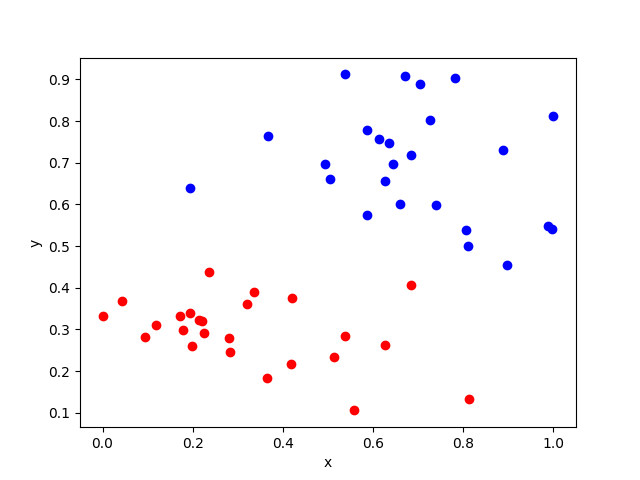
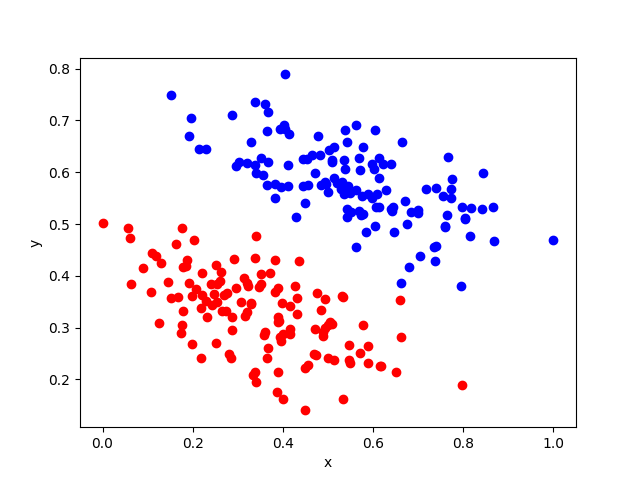
Add Decision Plot

diff --git a/Model/GradientPerceptron/LinearlySeperable.py b/Model/GradientPerceptron/LinearlySeperable.py
@@ -6,7 +6,7 @@ from Neuron import *
 
 # parameters
 N = list(2**n for n in range(4, 12))
-X = 50
+X = 250
 trainingRate = 0.0005
 
 
@@ -120,6 +120,23 @@ def perceptron_flood(neuron):
     plt.savefig("images/perceptron_flood_{}bits.png".format(N))
     plt.close()
 
+def plot_decision(neuron, x, y):
+    plt.figure()
+
+    x_t = np.arange(0, 1, 1/X)
+    y_t = neuron.decision(x_t)
+
+    plt.plot(x[:X//2, 0], x[:X//2, 1], 'ro')
+    plt.plot(x[X//2:, 0], x[X//2:, 1], 'bo')
+
+    plt.plot(x_t, y_t)
+
+    plt.xlim([0,1])
+    plt.ylim([0,1])
+    plt.xlabel('x')
+    plt.ylabel('y')
+    plt.savefig("images/perceptron_decision.png")
+    plt.close()
 
 def perceptron_dual_plot(x, y, R, N, neuron, weights):
     plt.figure()
@@ -161,6 +178,7 @@ def main():
     print("\n\"Real\" Perceptron")
     w, neuron = train_like_neuron_loop(x, y, trainingRate, 10)
     # perceptron_flood(neuron)
+    plot_decision(neuron, x, y)
     print("Weights: {}".format(w))
 
 

diff --git a/Model/GradientPerceptron/Neuron.py b/Model/GradientPerceptron/Neuron.py
@@ -13,3 +13,6 @@ class Neuron:
     def call(self, x):
         mult = x * self.weights
         return 1 - np.product(1 - mult)
+
+    def decision(self, x):
+        return (0.5 - (x * self.weights[0])) / (self.weights[1] - (x * self.weights[0] * self.weights[1]))
